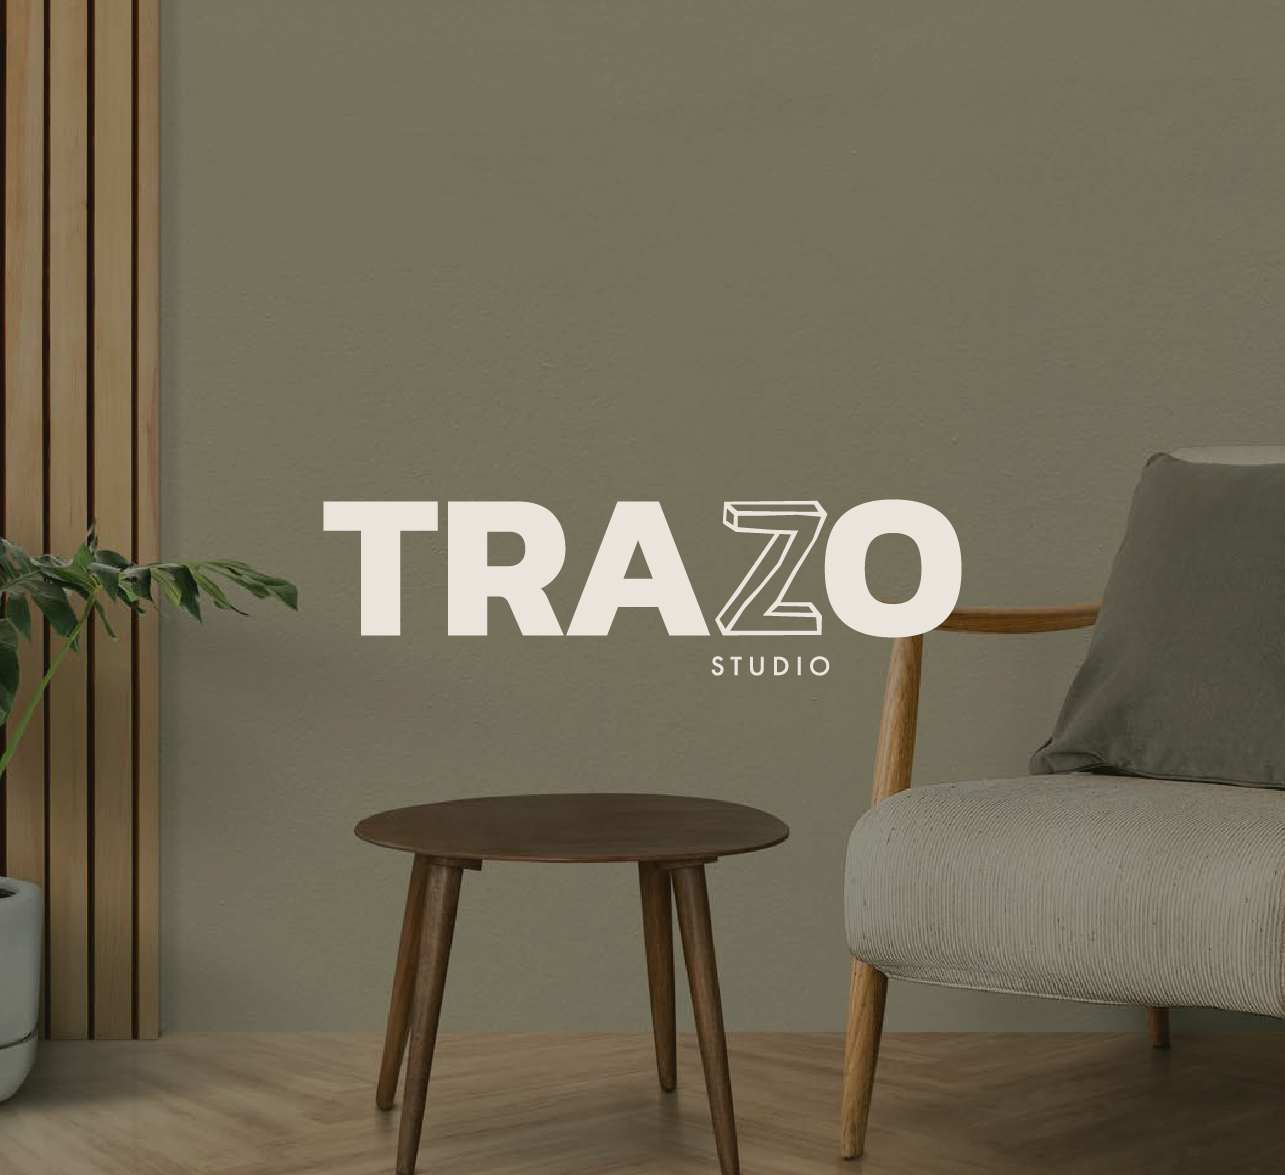
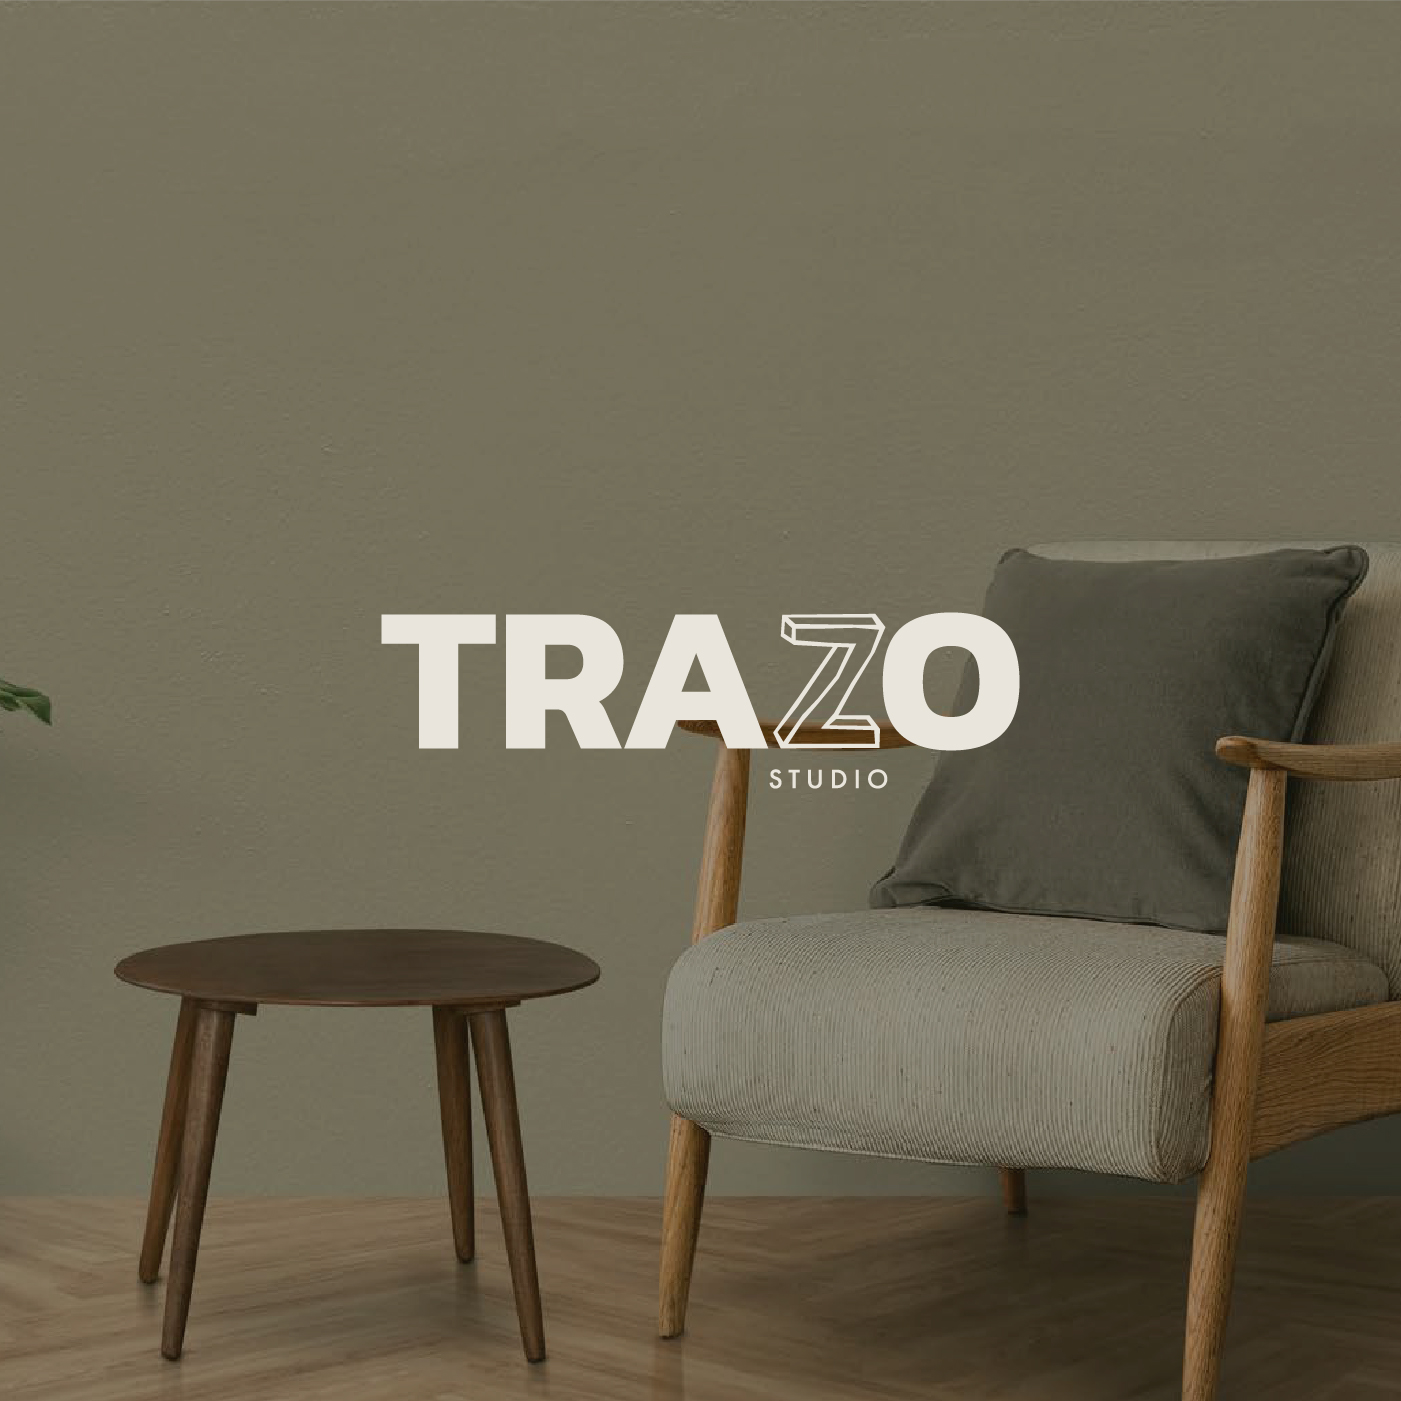
mm

Changed region(s): [[0.0, 0.0, 1.0, 1.0]]

diff --git a/pages/trazo.html b/pages/trazo.html
@@ -87,24 +87,26 @@
                     <div class="col-md-9 portfolio-left">
                         <div class="portfolio-slider owl-carousel">
                             <div class="item"><img class="img-responsive"
-                                    src="../assets/images/marcas/fregu/fregu-logo.jpg" alt="" />
+                                    src="../assets/images/marcas/trazo/trazo-logo.jpg" alt="" />
                             </div>
                             <div class="item"><img class="img-responsive"
-                                    src="../assets/images/marcas/fregu/fregu-logo2.jpg" alt="" />
+                                    src="../assets/images/marcas/trazo/trazo-logo2.jpg" alt="" />
+                            </div>
+                            <div class="item"><img class="img-responsive"
+                                src="../assets/images/marcas/trazo/trazo-logo3.jpg" alt="" />
                             </div>
                         </div>
                     </div>
                     <!--=== Left Side End ===-->
                     <div class="col-md-3 portfolio-right">
                         <ul class="project-detail-box">
-                            <li><strong>Cliente</strong>Freguglia</li>
+                            <li><strong>Cliente</strong>Trazo</li>
                         </ul>
                         <ul class="project-type-list">
                             <li><img class="quehacemos-img" src="../assets/images/quehacemos2-2.png"
-                                    style="width: 10%;">&nbsp;&nbsp;Marketing Digital</li>
+                                    style="width: 10%;">&nbsp;&nbsp;Branding</li>
                         </ul>
-                        <p class="mt-30">Freguglia es una importante inmobiliaria de la ciudad de Rosario, con más de 20
-                            años de trayectoria.
+                        <p class="mt-30">Trazo es un estudio de objetos de diseño y decoración de interiores.
                         </p>
                     </div>
                     <!--=== Right Side End ===-->
@@ -113,37 +115,52 @@
 
             <div class="container">
                 <div class="row">
+        
+                  <div class="col-md-3 portfolio-left">
+                    <h3>Detalles del Proyecto</h3>
+                    <p class="mt-20">Trazo es el proyecto de dos arquitectas que decidieron armar un estudio de interiorismo y objetos de decoración. Las acompañamos en el desarrollo del branding y la identidad de esta marca con mucha personalidad. 
 
-                    <div class="container pt-50">
-                        <div class="row">
-                            <div class="col-md-12">
-                                <img src="../assets/images/marcas/fregu/fregu-historias.jpg">
-                            </div>
-                        </div>
-                        <div class="row pt-50">
-                            <div class="col-md-12">
-                                <img src="../assets/images/marcas/fregu/fregu-anuncios.jpg">
-                            </div>
-                        </div>
+                    </p>
+                  </div>
+                  <!--=== Left Side End ===-->
+        
+                  <div class="col-md-9 portfolio-right">
+                    <div class="portfolio-slider owl-carousel">
+                      <div class="item"><img class="img-responsive" src="../assets/images/marcas/trazo/trazo-branding.jpg"
+                          alt="" />
+                      </div>
+                      <div class="item"><img class="img-responsive" src="../assets/images/marcas/trazo/trazo-branding1.jpg"
+                          alt="" />
+                      </div>
                     </div>
-
+                    <!--=== Right Side End ===-->
+                  </div>
                 </div>
-
-                <!-- <div class="container pt-50 pt-50">
-                    <div class="row">
-
-                        <div class="col-md-9 portfolio-left">
-                            <img class="img-responsive" src="../assets/images/marcas/full/full-feed.jpg" alt="" />
-                        </div>
-                        <div class="col-md-3 portfolio-right">
-                            <p class="mt-20">“Acá va una cita de una frase de agroleon hablando bien de nosotros pero
-                                todavía no la
-                                tengo” ahre
-                            </p>
-                        </div>
-
+        
+                <div class="container pt-50">
+                  <div class="row">
+                    <div class="col-md-12">
+                      <img src="../assets/images/marcas/trazo/trazo-1.jpg">
                     </div>
-                </div> -->
+                    <div class="col-md-12 mt-40">
+                        <img src="../assets/images/marcas/trazo/trazo-2.jpg">
+                    </div>
+                    <div class="col-md-12 mt-40">
+                        <img src="../assets/images/marcas/trazo/trazo-3.jpg">
+                    </div>
+                    <div class="col-md-12 mt-40">
+                        <img src="../assets/images/marcas/trazo/trazo-4.jpg">
+                    </div>
+                    <div class="col-md-12 mt-40">
+                        <img src="../assets/images/marcas/trazo/trazo-5.jpg">
+                    </div>
+                    <div class="col-md-12 mt-40">
+                        <img src="../assets/images/marcas/trazo/trazo-6.jpg">
+                    </div>
+                  </div>
+                </div>
+        
+              </div>
 
         </section>
 

diff --git a/pages/work.html b/pages/work.html
@@ -195,16 +195,16 @@
             </div>
           </div>
 
-          <!-- <div class="col-sm-4">
+          <div class="col-sm-4">
             <div class="card">
               <div class="card-front">
-                <a href="../pages/freguglia.html">
+                <a href="../pages/trazo.html">
                   <img src="../assets/images/casos-exito/TRAZO.jpg" class="card-img-top" alt="...">
                   <div class="caption">Branding</div>
                 </a>
               </div>
             </div>
-          </div> -->
+          </div>
 
         </div>
       </div>

diff --git a/pages/freguglia.html b/pages/freguglia.html
@@ -125,6 +125,11 @@
                                 <img src="../assets/images/marcas/fregu/fregu-anuncios.jpg">
                             </div>
                         </div>
+                        <div class="row pt-50">
+                            <div class="col-md-12">
+                                <img src="../assets/images/marcas/fregu/fregu-anuncios2.jpg">
+                            </div>
+                        </div>
                     </div>
 
                 </div>
